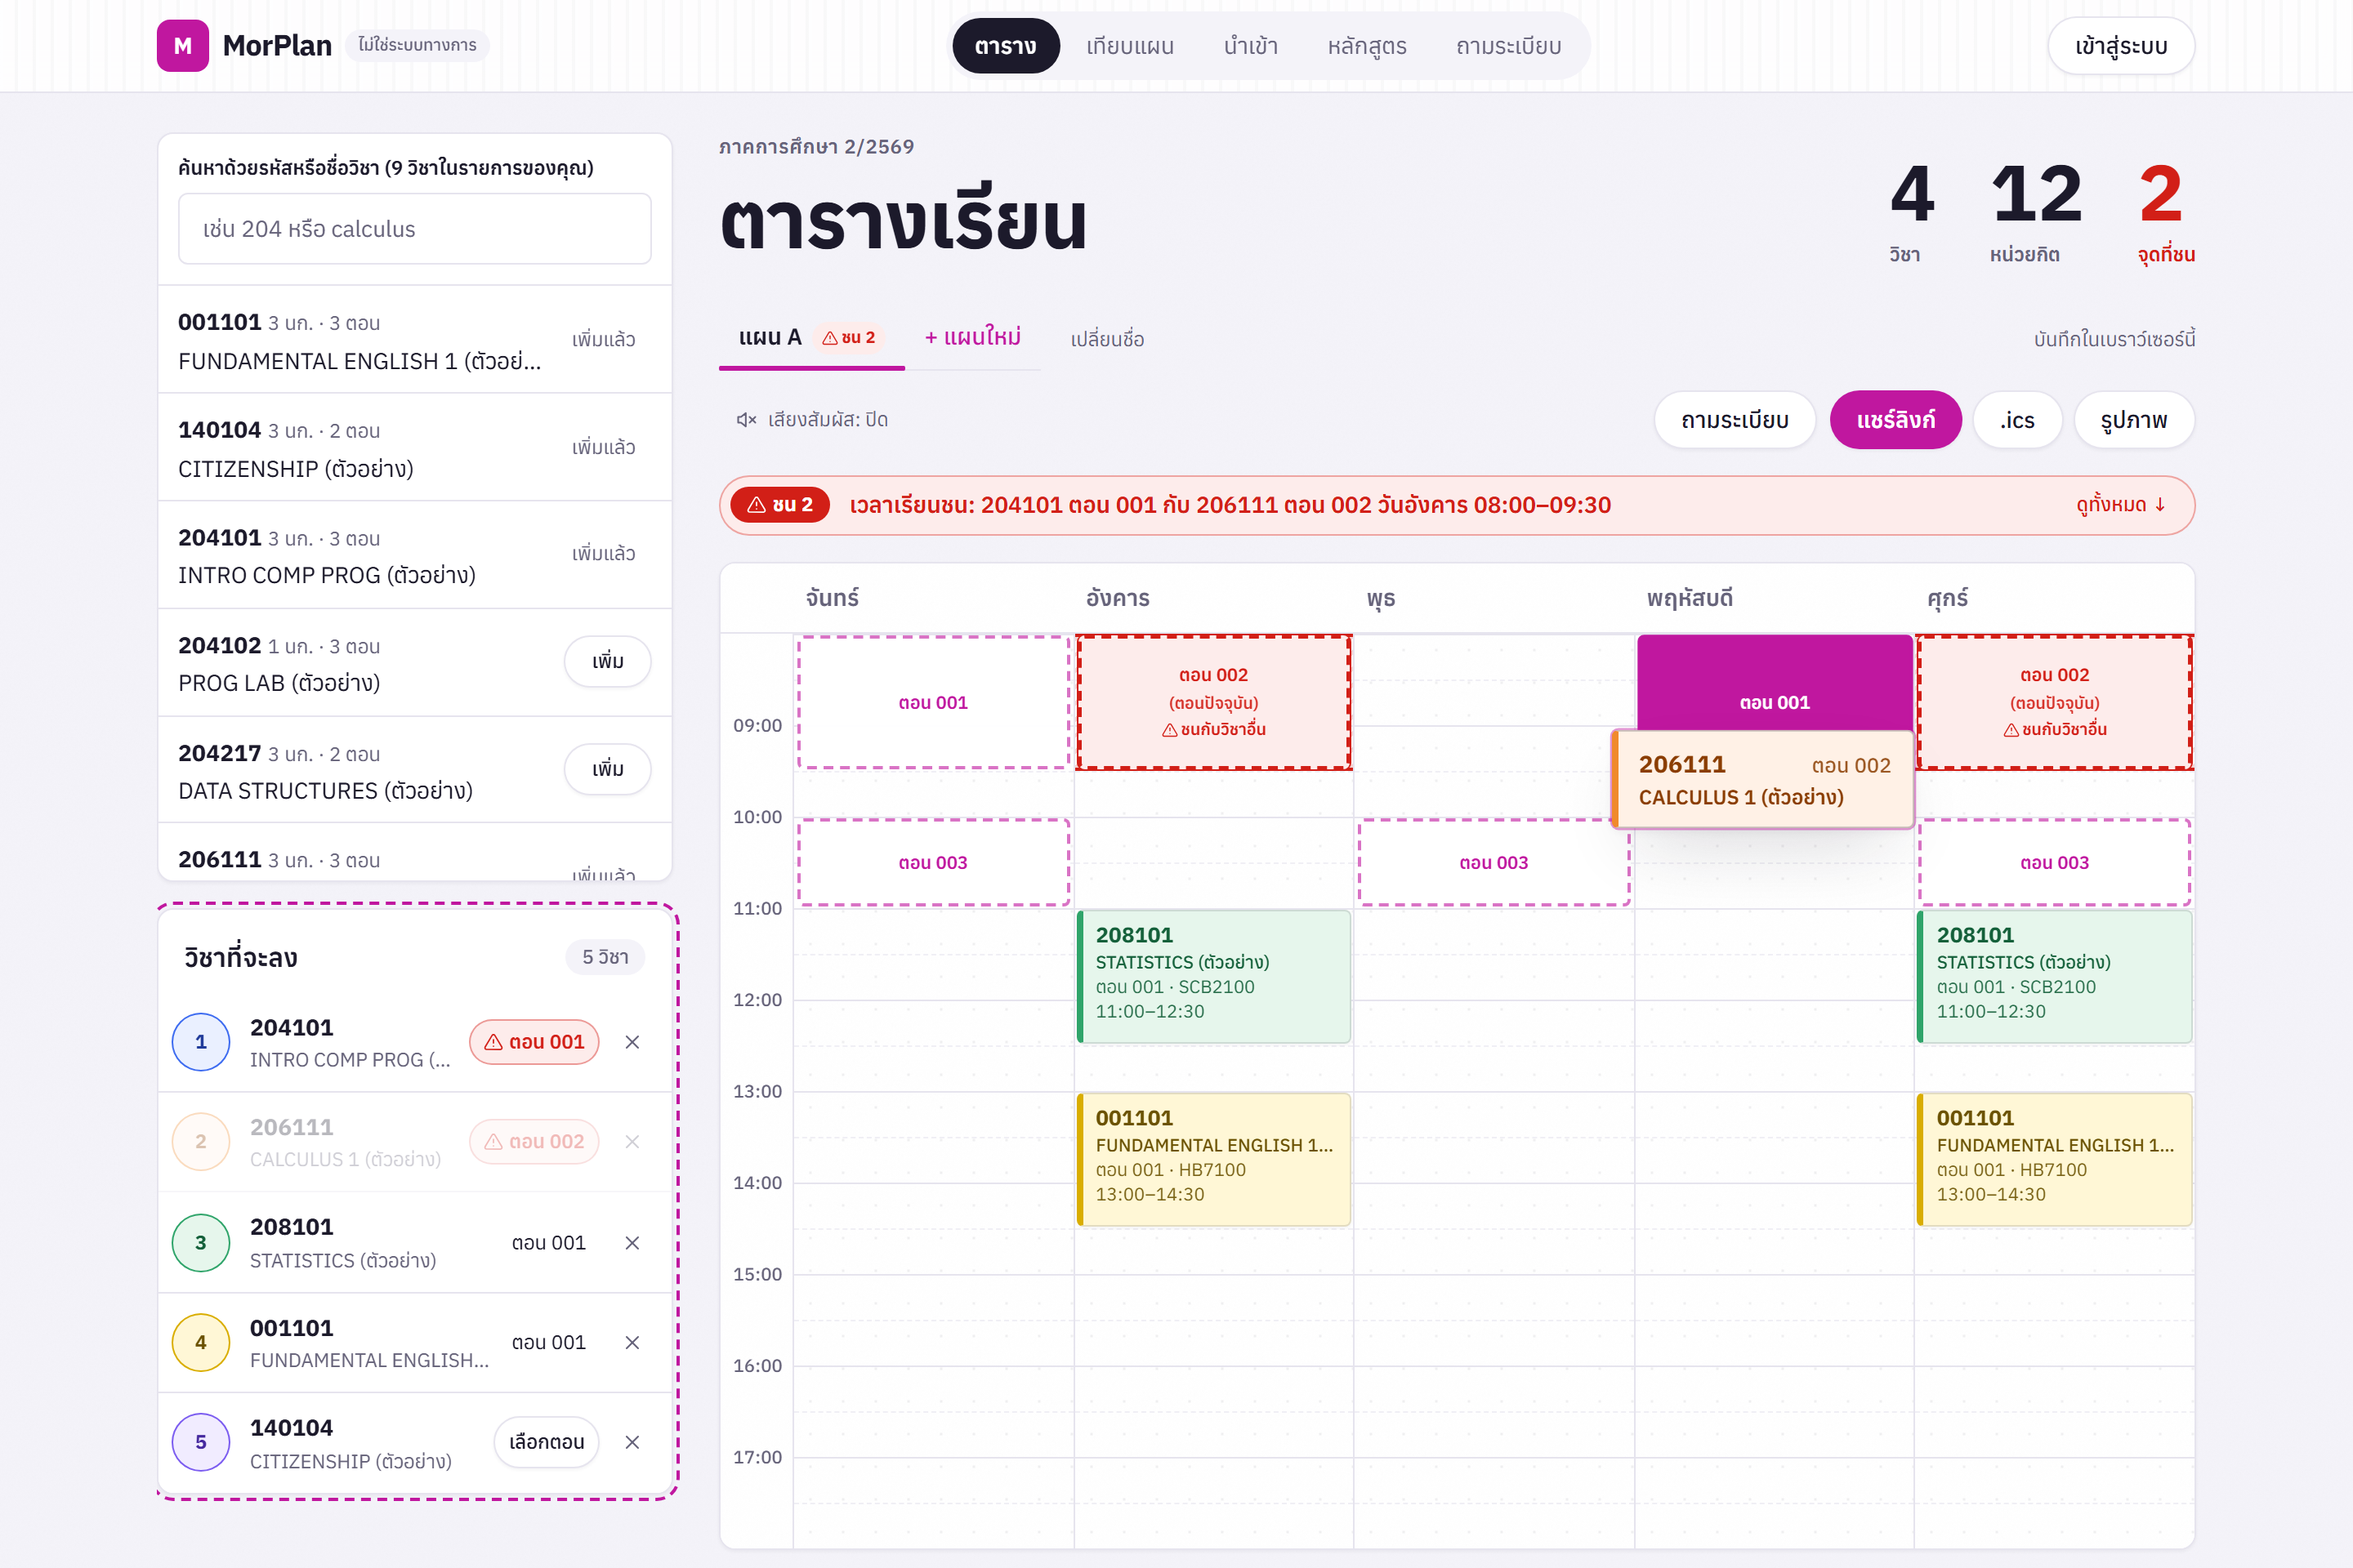
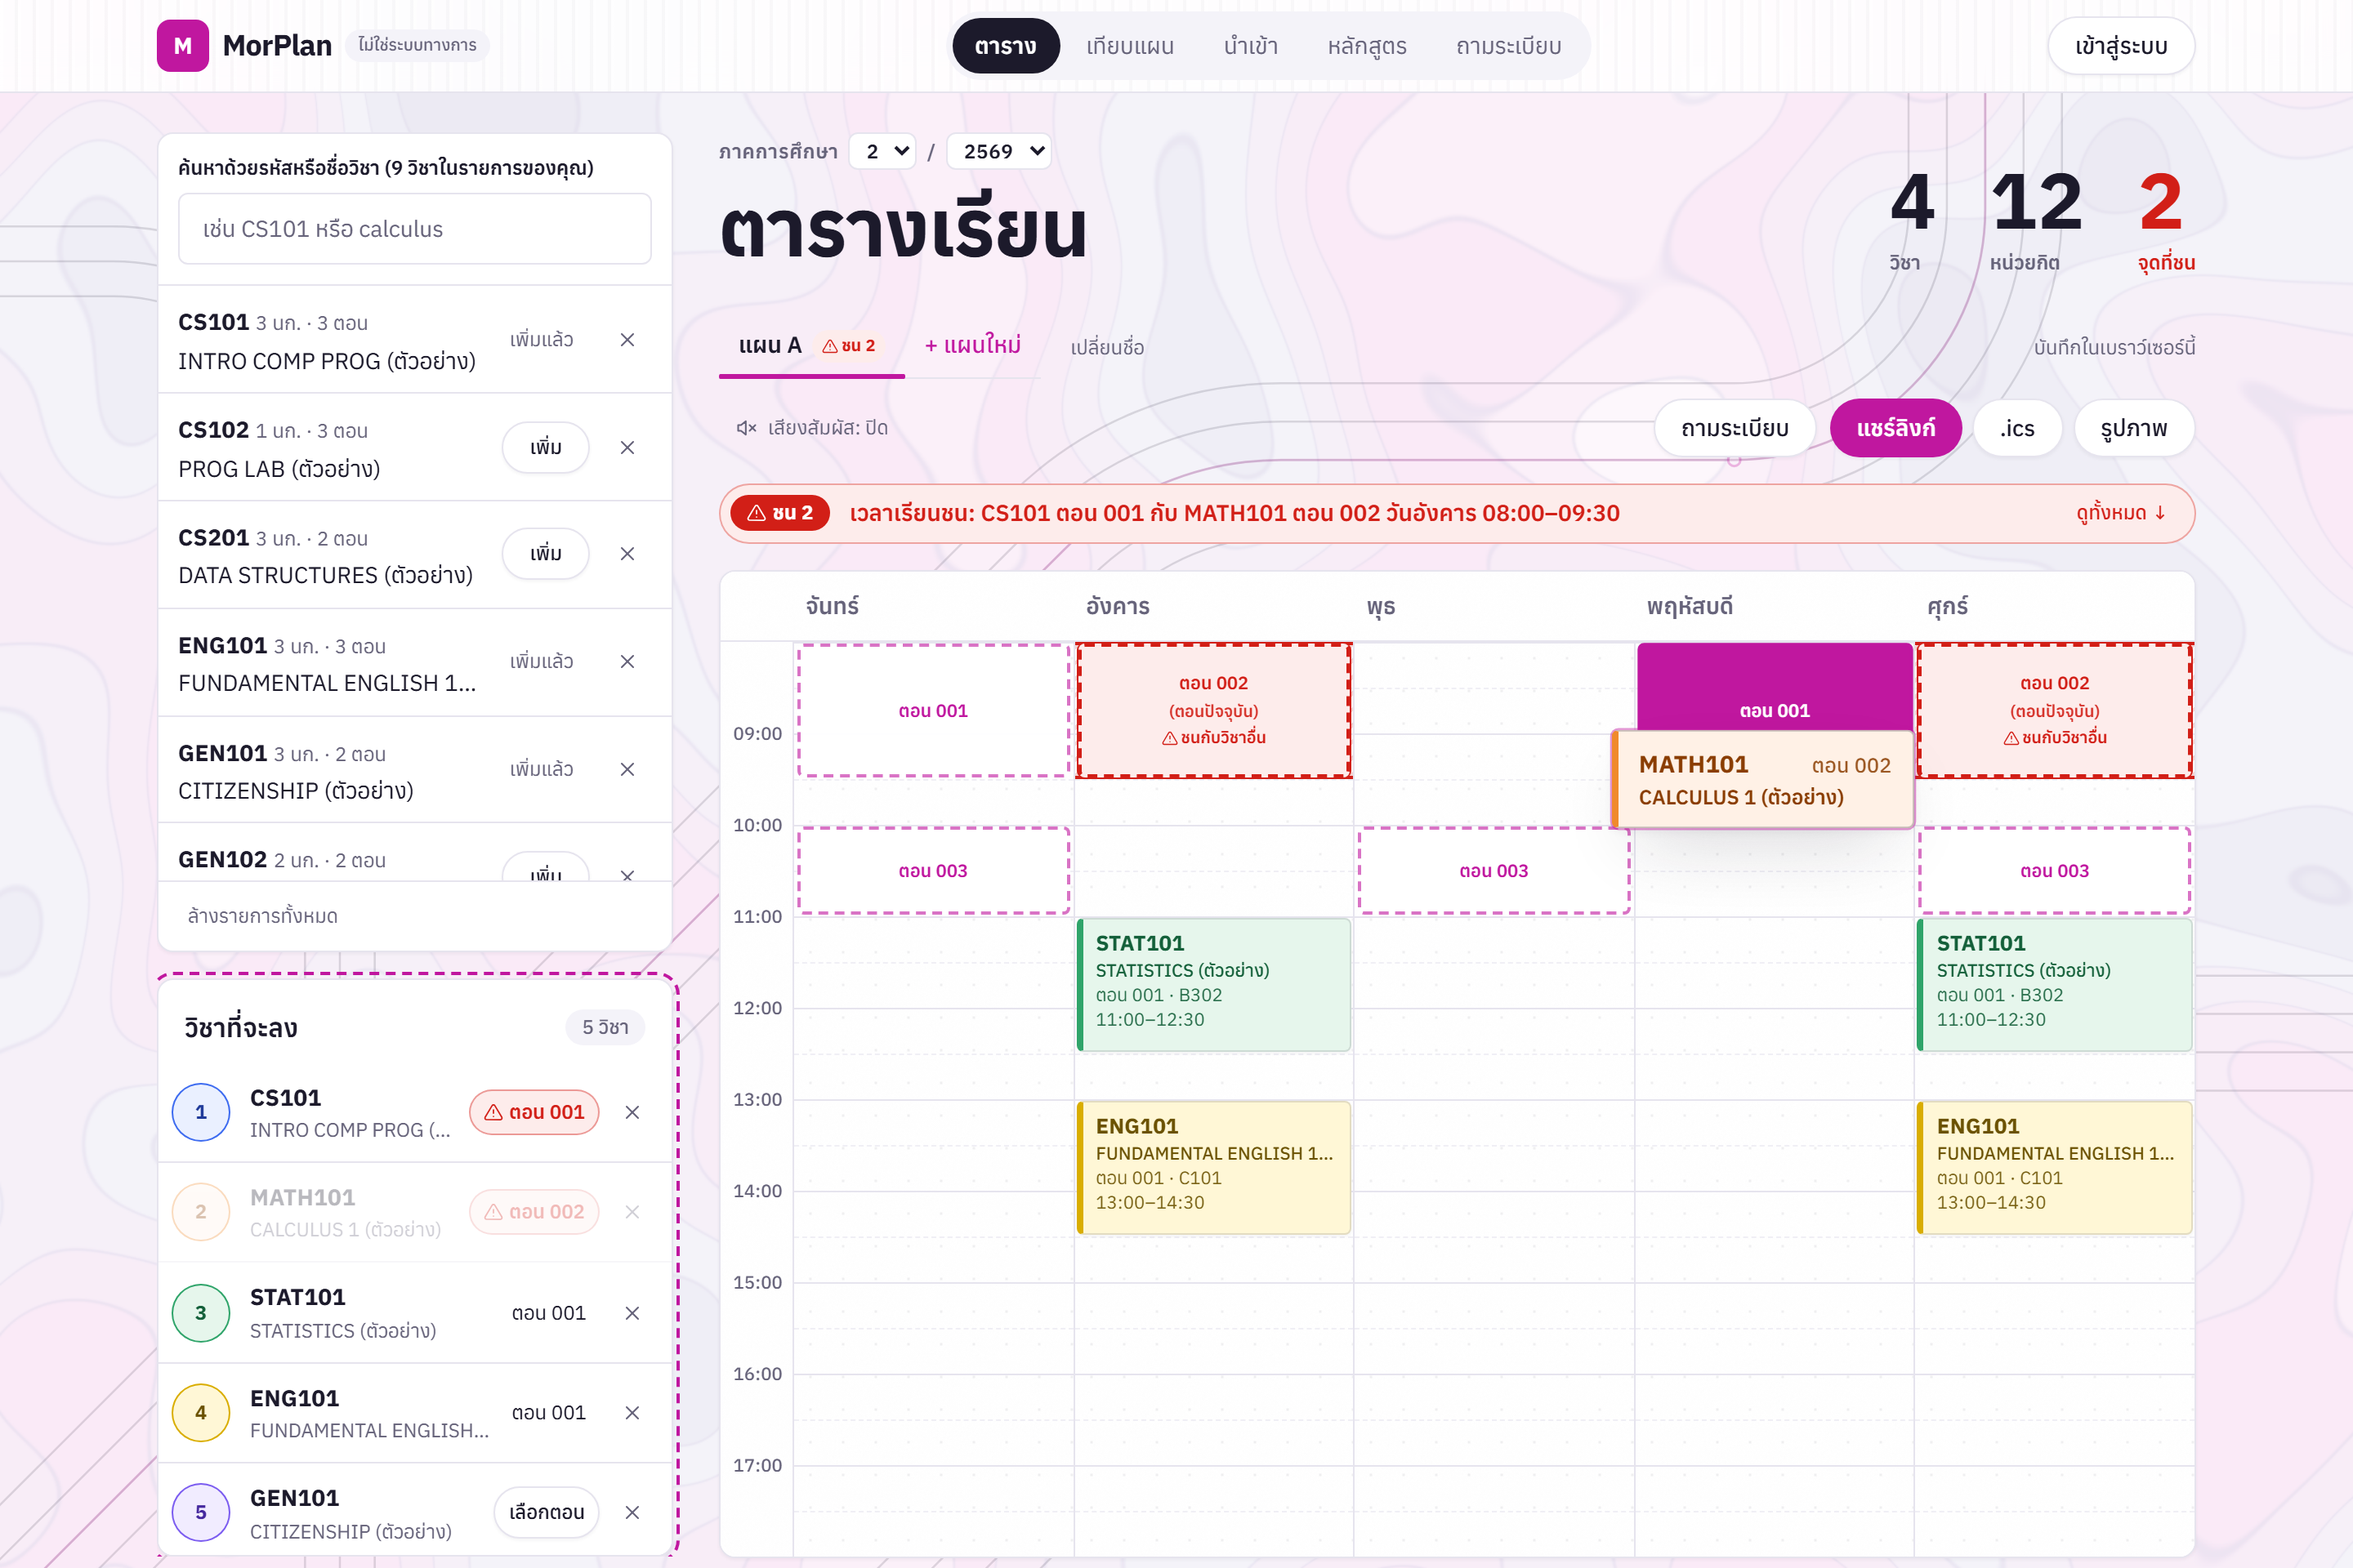
docs: fresh screenshots and README for any Thai university

diff --git a/README.md b/README.md
@@ -1,10 +1,10 @@
 # MorPlan
 
-**Plan a CMU timetable by drag and drop, see class and exam clashes instantly, ask the university's rules in Thai with page citations, and follow your curriculum term by term.**
+**Plan a timetable at any Thai university by drag and drop, see class and exam clashes instantly, ask your university's rules in Thai with page citations, and follow your curriculum term by term.**
 
 **Live:** https://morplan.vercel.app
 
-> ไม่ใช่ระบบทางการของมหาวิทยาลัยเชียงใหม่ — a student project, not affiliated with CMU or its Registration Office.
+> ไม่ใช่ระบบทางการของมหาวิทยาลัยใดๆ — a student project, not affiliated with any university or registration office.
 
 ![Planner](docs/screenshots/planner.png)
 
@@ -12,9 +12,13 @@
 |---|---|
 | ![Drag](docs/screenshots/drag.png) | ![Compare](docs/screenshots/compare.png) |
 
-| Rule Q&A with page citations | Phone view |
+| Import for any university: pasted tables read in the browser | Phone view |
 |---|---|
-| ![Ask](docs/screenshots/ask.png) | <img src="docs/screenshots/mobile.png" alt="Phone view" width="300"> |
+| ![Import](docs/screenshots/import.png) | <img src="docs/screenshots/mobile.png" alt="Phone view" width="300"> |
+
+| Rule Q&A for your university, with page citations | A university without documents yet: add one |
+|---|---|
+| ![Ask](docs/screenshots/ask.png) | ![Add a regulation document](docs/screenshots/ask-other.png) |
 
 ### Curriculum advisor
 
@@ -28,22 +32,22 @@ Pick university, faculty and major from lists (every TCAS university), add the y
 |---|---|
 | ![Electives](docs/screenshots/curriculum-electives.png) | ![Progress](docs/screenshots/curriculum-progress.png) |
 
-Screenshots are taken from the live site with the built-in demo data and the shared CMU computer science curriculum: `npx tsx scripts/screenshots.mts`.
+Screenshots are taken from the live site with the built-in demo data (made-up courses), Chiang Mai University's bundled regulations and its shared computer science curriculum: `npx tsx scripts/screenshots.mts`.
 
 ## What it does
 
 - **Planner.** Drag a course onto the week grid. While you drag, every section of that course appears as a slot, and slots that would clash are red. Drop on one to place it, or drag it back to the list to remove it. It also works from the keyboard: Space picks up, arrows jump between sections, Space drops, Esc cancels, and screen readers get Thai announcements. On a phone you tap to pick a section and browse one day at a time.
-- **Clash checks.** Class meetings (lecture and lab are checked separately), midterms, finals, and the same course placed twice are all flagged. Exam slots come from the Registration Office's *public* exam timetable.
-- **Plans A–E.** Compare them side by side: credits, clashes, free days, earliest and latest class. Share a read-only link, or export `.ics` (weekly series that skips midterm weeks, plus exam events) or a PNG.
-- **Rule Q&A.** Answers questions about the undergraduate regulations, exam and discipline rules, fees, the 2569 academic calendar and the Registration Office's guides. Every answer shows the document title and page with a link to the official PDF. If the answer isn't in the documents it says **"ไม่พบ"**, and every answer ends with "ตรวจสอบกับประกาศทางการอีกครั้ง".
-- **Curriculum advisor.** `/curriculum` asks for university, faculty, major and entry year. Faculties and majors come as lists for every university on TCAS, with a "type it yourself" way out. MorPlan looks for a curriculum someone has already confirmed; if there is none, it finds the faculty's curriculum page or reads a link, PDF or pasted text with AI, shows what it read for you to check, and drops any course code that is not in the document. Then it shows this term's courses from your study plan (normal, co-op or fast track), courses left over from earlier terms, the electives you can still take, minors and your credits by category. Tick what you have passed; MorPlan never asks for reg passwords or grades.
-- **Other universities.** `/import` also takes another university's registration page. AI reads the pasted page into sections, and every course code and time is checked against the text before it is kept.
-- **Account (optional).** Sign in with email or Google to open the same plans on every device. `/account` lets you set a display name, see your sign-in methods, change or set a password (the current one is asked first, and other devices are signed out), sign out everywhere, and delete the account with all saved plans. Every password field has a show/hide button.
+- **Clash checks.** Class meetings (lecture and lab are checked separately), midterms, finals, and the same course placed twice are all flagged. Exam slots come from the pasted page (checked against its text), from the student, or from a university's *public* exam timetable where one is bundled (Chiang Mai University for now).
+- **Plans A–E.** Compare them side by side: credits, clashes, free days, earliest and latest class. Share a read-only link, or export `.ics` (you confirm the term's first and last day of classes; weekly series plus exam events) or a PNG. The term (1, 2 or 3/summer and the year) is editable.
+- **Rule Q&A per university.** Answers only from the chosen university's documents, never another's. Chiang Mai University comes with its regulations, fees, academic calendar and guides; for any other university a student finds or pastes a link on the university's site (shared with classmates once they confirm what was read), or uploads a PDF / pastes text that stays with them only. Every answer shows the document title and page. If the answer isn't in the documents it says **"ไม่พบ"**, and every answer ends with "ตรวจสอบกับประกาศทางการอีกครั้ง".
+- **Curriculum advisor.** `/curriculum` asks for university, faculty, major and entry year. Faculties and majors come as lists for every university on TCAS, with a "type it yourself" way out. MorPlan looks for a curriculum someone has already confirmed; if there is none, it finds the faculty's curriculum page or reads a link, PDF or pasted text with AI, shows what it read for you to check, and drops any course code that is not in the document. Then it shows this term's courses from your study plan (normal, co-op or fast track), courses left over from earlier terms, the electives you can still take, minors and your credits by category. Tick what you have passed; MorPlan never asks for registration passwords or grades.
+- **Import for any university.** `/import` has one university picker and no "default" university. A table the browser can read (codes such as `204101` or `CS101`) is parsed locally; anything else is read by AI, and every course code, time and exam date is checked against the pasted text before it is kept. "+ เพิ่มวิชาเอง" adds a course by hand with day toggles, up to six meeting times and exam dates.
+- **Account (optional).** Sign in with email or Google to open the same plans on every device. A signed-in workspace lives only in the database, so signing out or switching accounts never shows one account's plans to another; work done before signing in is offered to a new account, not copied silently. `/account` lets you set a display name, see your sign-in methods, change or set a password (the current one is asked first, and other devices are signed out), sign out everywhere, and delete the account with all saved plans. Every password field has a show/hide button.
 
 ## Where the data comes from (and what MorPlan refuses to do)
 
-- Since PDPA, reg's course search (section, time, room, instructor) needs a reg login. MorPlan never asks for reg/CMU credentials and does not scrape behind the login. The student opens reg in their own browser, copies (or saves) the results page and pastes it into `/import`. Parsing happens in the browser. A manual form covers anything the parser can't read.
-- Imported sections stay in the student's browser (or their MorPlan account). They are never pooled into a shared catalogue, so MorPlan doesn't republish what reg stopped publishing.
+- Since PDPA, most universities' course search (section, time, room, instructor) needs a login. MorPlan never asks for registration or university credentials and does not scrape behind the login. The student opens their registration site in their own browser, copies (or saves) the results page and pastes it into `/import`. Parsing happens in the browser. A manual form covers anything the parser can't read.
+- Imported sections stay in the student's browser (or their MorPlan account). They are never pooled into a shared catalogue, so MorPlan doesn't republish what registration sites stopped publishing.
 - The only thing scraped is the public exam timetable (`timetable_exam.php`, allowed by robots.txt): two requests per term with a 2 s gap, cached in `data/exams/`.
 - The curriculum setup form lists each university's faculties and majors from the public TCAS program list (course.mytcas.com, run by ทปอ.; its terms only forbid bots that abuse the service). `scripts/fetch-programs.mts` downloads it once and keeps university → faculty → majors in `data/programs-th.json`.
 - The regulation PDFs are public (`www.reg.cmu.ac.th/webreg/reg-files/…`). `data/docs.json` lists them, the PDFs themselves aren't committed, and the OCR text is in `data/pages.json`.
@@ -81,7 +85,7 @@ Known limitation: the central regulations are scanned images, and Tesseract misr
 
 ## Security and privacy
 
-- **No reg/CMU credentials, ever.** Section data is pasted by the student and parsed in the browser.
+- **No registration or university credentials, ever.** Section data is pasted by the student and parsed in the browser.
 - **Google sign-in** uses Supabase OAuth with PKCE; `/auth/callback` only redirects to same-site paths. The button appears when `AUTH_GOOGLE_ENABLED=true`, after the Google provider is set up in Supabase (Google Cloud OAuth client, redirect URI `https://<project>.supabase.co/auth/v1/callback`).
 - **CSP with per-request nonces** (`script-src 'nonce-…' 'strict-dynamic'`, `frame-ancestors 'none'`, `object-src 'none'`), plus nosniff, `X-Frame-Options: DENY`, strict referrer and permissions policies, HSTS, no `X-Powered-By`, and `no-store` on API responses. See `src/proxy.ts` and `next.config.ts`.
 - **CSRF:** every state-changing API requires same-origin JSON (which forces a CORS preflight that is never granted). Sign-out checks Origin, and server actions are origin-checked by Next.js.
@@ -133,3 +137,4 @@ npm run dev -- -p 3100
 - No real users or usage numbers yet; anonymous counters (imports, shares, questions) are in place.
 - The reg import parser was written without a real logged-in results page, because that page isn't public. A saved sample in `samples/` will become a test fixture.
 - Curriculum advisor (`/curriculum`) deployed 2026-11-15 with the CMU computer science curriculum (64+), its major electives and the CMU minors list seeded on production; faculty and major lists from TCAS. Other curricula are read on demand. See `HANDOFF.md`.
+- Any Thai university, account isolation and per-university regulations (`regulations` table, migration 0004) deployed 2026-11-21. Only Chiang Mai University has bundled regulations and an exam table so far; other universities start empty until a student adds a document.
